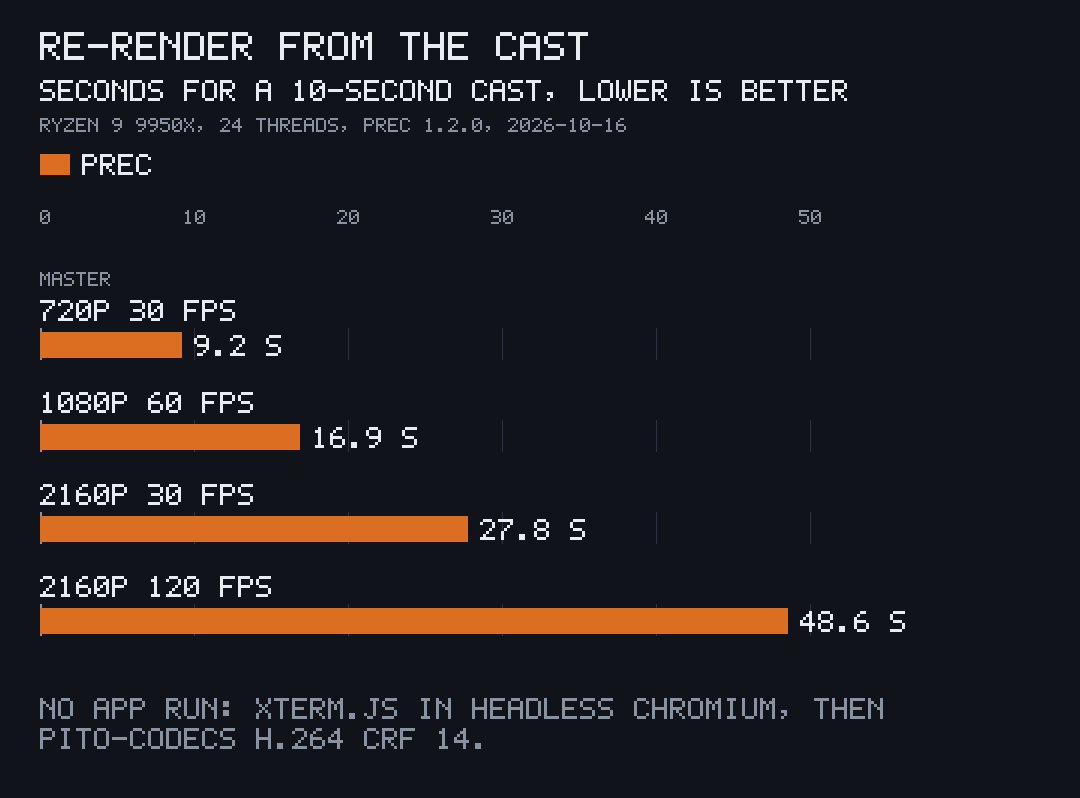
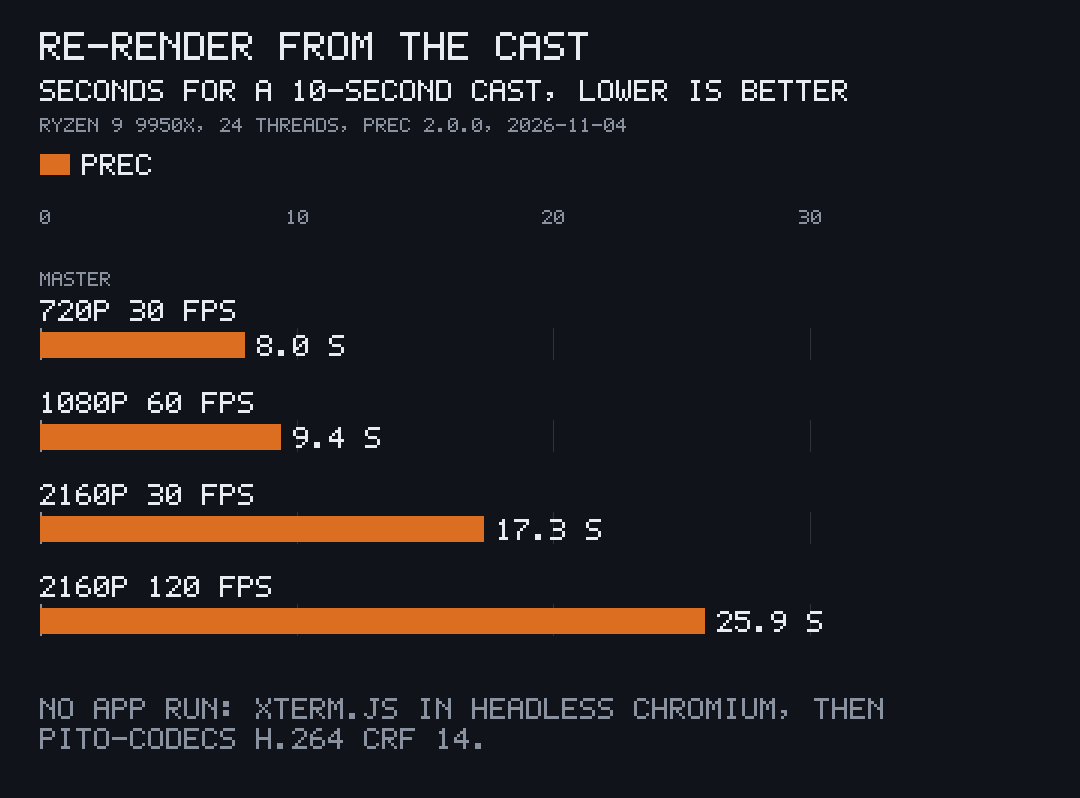
True byte claims: one prec version gives the same bytes from the same cast, and a new version can change them; the re-render numbers, hash and sizes are measured on 2.0.0, and bench.sh reads masters with pcod probe

diff --git a/README.md b/README.md
@@ -4,20 +4,20 @@
 
 [![Version](https://img.shields.io/github/v/tag/gmrdad82/prec)](https://github.com/gmrdad82/prec/tags)
 
-prec records terminal apps into exact videos and stills, part of [PITO MD](https://pitomd.com). It is an alternative to [VHS](https://github.com/charmbracelet/vhs): you write a tape of keystrokes, and prec runs your app in a real pty, records the session once, then replays it frame by frame in headless Chromium at exactly 24, 30, 48, 60 or 120 fps or the NTSC rates 23.976, 29.97, 47.952 and 59.94 (as exact rationals such as 24000/1001), at any size up to 4K. The same recording always replays to the same bytes.
+prec records terminal apps into exact videos and stills, part of [PITO MD](https://pitomd.com). It is an alternative to [VHS](https://github.com/charmbracelet/vhs): you write a tape of keystrokes, and prec runs your app in a real pty, records the session once, then replays it frame by frame in headless Chromium at exactly 24, 30, 48, 60 or 120 fps or the NTSC rates 23.976, 29.97, 47.952 and 59.94 (as exact rationals such as 24000/1001), at any size up to 4K. One prec version replays the same recording to the same bytes.
 
 | | |
 |---|---|
 | Frames in a 10-second clip at 120 fps | **1,196**, every one (VHS v0.11.0 on the same tape: 214) |
-| Re-render a 10-second cast at 1080p 60 fps | **16.9 s**, without running the app again |
-| Two renders of one cast | **byte-identical** masters, same sha256 |
+| Re-render a 10-second cast at 1080p 60 fps | **9.4 s**, without running the app again |
+| Two renders of one cast | **byte-identical** masters, same sha256; one prec version gives the same bytes on any machine |
 | Sizes and rates | any size up to **3840x2160**, at **24, 30, 48, 60 or 120 fps**, or NTSC **24000/1001, 30000/1001, 48000/1001 and 60000/1001** |
 | Binary | **5.7 MB**, stripped, fat LTO, its H.264 encoder built in (2.4 MB as the release `.tar.gz`) |
-| Code | **10,912 lines** of Rust in `src/`, unit tests included; **18** direct dependencies |
-| Cold release build | **70.4 s** with 4 build jobs |
+| Code | **17,754 lines** of Rust in `src/`, unit tests included; **17** direct dependencies |
+| Cold release build | **70.4 s** with 4 build jobs (prec 1.2.0) |
 | Network | none: prec downloads nothing |
 
-Measured on 2026-10-16 on an AMD Ryzen 9 9950X (prec and VHS pinned to the same 24 threads), with prec 1.2.0 and VHS v0.11.0, from [docs/bench/bench.sh](docs/bench/bench.sh); see [Speed](#speed) for every number and how it was taken.
+Measured on an AMD Ryzen 9 9950X (prec and VHS pinned to the same 24 threads): the VHS comparison on 2026-10-16 with prec 1.2.0 and VHS v0.11.0, the re-render time on 2026-11-04 with prec 2.0.0, from [docs/bench/bench.sh](docs/bench/bench.sh); see [Speed](#speed) for every number and how it was taken.
 
 Got questions or doubts? Ping me on Discord: https://discord.gg/XsNcn3kYzn
 
@@ -49,9 +49,9 @@ VHS v0.11.0 captured in real time and wrote a 25 fps file at every setting, shor
 
 ### Record once, render many
 
-The session is kept as an [asciicast v2](docs/formats.md) cast. `prec render` replays a cast at another size, rate or theme without running the app again, and the same cast always gives the same bytes: in the benchmark, two 720p 30 fps renders of one cast wrote the same master, sha256 `4fab0be36a0ac519…`.
+The session is kept as an [asciicast v2](docs/formats.md) cast. `prec render` replays a cast at another size, rate or theme without running the app again, and one prec version gives the same bytes from the same cast on any machine. A new version can change them (its encoder or its colour handling may move), and the [CHANGELOG](CHANGELOG.md) says when. In the benchmark, two 720p 30 fps renders of one cast wrote the same master, sha256 `5bf7c84a3f09217a…`.
 
-<p align="center"><img src="docs/images/rerender.png" width="640" alt="Bars, lower is better: seconds to replay and encode a 10-second cast with prec 1.2.0: 720p 30 fps 9.2 s, 1080p 60 fps 16.9 s, 2160p 30 fps 27.8 s, 2160p 120 fps 48.6 s."></p>
+<p align="center"><img src="docs/images/rerender.png" width="640" alt="Bars, lower is better: seconds to replay and encode a 10-second cast with prec 2.0.0: 720p 30 fps 8.0 s, 1080p 60 fps 9.4 s, 2160p 30 fps 17.3 s, 2160p 120 fps 25.9 s."></p>
 
 ### Native pixels at every size
 
@@ -95,11 +95,11 @@ All numbers come from one run of [docs/bench/bench.sh](docs/bench/bench.sh) on 2
 
 VHS finishes sooner, because it keeps what it can capture in real time; prec records in real time, then replays and encodes every frame at CRF 14 with pito-codecs' H.264 encoder. A frame's moment that brings no new bytes reuses the previous frame, so a mostly still terminal replays faster than a busy one.
 
-Re-rendering the 30 fps recording's cast, with no app run: 720p 30 fps in 9.2 s (299 frames; the same render again took 9.8 s and wrote the same bytes), 1080p 60 fps in 16.9 s (598 frames), 2160p 30 fps in 27.8 s (299 frames) and 2160p 120 fps in 48.6 s (1,196 frames).
+Re-rendering the 30 fps recording's cast, with no app run, measured on 2026-11-04 with prec 2.0.0 by `ONLY=1 CPUS=4-15,20-31 docs/bench/bench.sh` (the re-render part alone, on a machine with a load average of about 9 on 32 threads): 720p 30 fps in 8.0 s (299 frames; the same render again took 8.0 s and wrote the same bytes), 1080p 60 fps in 9.4 s (598 frames), 2160p 30 fps in 17.3 s (299 frames) and 2160p 120 fps in 25.9 s (1,196 frames).
 
 A window that resizes gets a new backdrop for every grid it passes through, and prec writes each one as a fast-compressed 8-bit RGB PNG. Measured on 2026-10-23 at 1280x720 and 30 fps, against prec 1.5.2's default-compressed RGBA PNGs, over a cast that resizes 40x10 → 38x16 → 40x10 → 60x20 → 40x10 (37 backdrops; medians of 10 interleaved runs): each write takes 788 µs instead of 1,608 µs, and the files are 2.2 times smaller (613,266 bytes instead of 1,375,323). The masters are byte-identical, and the whole render stays within run-to-run noise (8.80 s against 8.63 s).
 
-Size and build: the Linux x86_64 binary is 5,935,688 bytes (5.7 MB; 2,508,494 bytes packed as the release's `.tar.gz`), built with fat LTO, one codegen unit and stripped; a cold `cargo build --release --locked` took 70.4 s with 4 build jobs. `src/` is 10,912 lines of Rust with its unit tests. prec has 18 direct dependencies and 95 crates in its Linux build; the xterm.js files, the VHS themes and pito-codecs' H.264 encoder are compiled in, so it runs no encoder of yours and reads nothing from the network. Renders on a Mac are untested.
+Size and build: the Linux x86_64 binary is 5,995,872 bytes (5.7 MB; 2,557,323 bytes packed as the release's `.tar.gz`), built with fat LTO, one codegen unit and stripped; a cold `cargo build --release --locked` took 70.4 s with 4 build jobs (measured with prec 1.2.0). `src/` is 17,754 lines of Rust with its unit tests. prec has 17 direct dependencies and 105 crates in its Linux build; the xterm.js files, the VHS themes and pito-codecs' H.264 encoder are compiled in, so it runs no encoder of yours and reads nothing from the network. Renders on a Mac are untested.
 
 ## Install
 

diff --git a/docs/site/index.md b/docs/site/index.md
@@ -7,18 +7,18 @@ sidebar:
 
 ![A terminal: cat render/terminal/typing.tape shows a short tape; then prec clip demo typing --size 720p --fps 30 records the demo in a 60x16 pty, replays 114 frames at 1280x720 and prints its manifest, and ls lists the cast, the manifest, the master MP4 and the poster PNG.](images/record.gif)
 
-prec records terminal apps into exact videos and stills, part of [PITO MD](https://pitomd.com). It is an alternative to [VHS](https://github.com/charmbracelet/vhs): you write a tape of keystrokes, and prec runs your app in a real pty, records the session once, then replays it frame by frame in headless Chromium at exactly 24, 30, 48, 60 or 120 fps or the NTSC rates 23.976, 29.97, 47.952 and 59.94 (as exact rationals such as 24000/1001), at any size up to 4K. The same recording always replays to the same bytes.
+prec records terminal apps into exact videos and stills, part of [PITO MD](https://pitomd.com). It is an alternative to [VHS](https://github.com/charmbracelet/vhs): you write a tape of keystrokes, and prec runs your app in a real pty, records the session once, then replays it frame by frame in headless Chromium at exactly 24, 30, 48, 60 or 120 fps or the NTSC rates 23.976, 29.97, 47.952 and 59.94 (as exact rationals such as 24000/1001), at any size up to 4K. One prec version replays the same recording to the same bytes.
 
 | | |
 |---|---|
 | Frames in a 10-second clip at 120 fps | **1,196**, every one (VHS v0.11.0 on the same tape: 214) |
-| Re-render a 10-second cast at 1080p 60 fps | **16.9 s**, without running the app again |
-| Two renders of one cast | **byte-identical** masters, same sha256 |
+| Re-render a 10-second cast at 1080p 60 fps | **9.4 s**, without running the app again |
+| Two renders of one cast | **byte-identical** masters, same sha256; one prec version gives the same bytes on any machine |
 | Sizes and rates | any size up to **3840x2160**, at **24, 30, 48, 60 or 120 fps**, or NTSC **24000/1001, 30000/1001, 48000/1001 and 60000/1001** |
 | Binary | **5.7 MB**, stripped, fat LTO, its H.264 encoder built in (2.4 MB as the release `.tar.gz`) |
 | Network | none: prec downloads nothing |
 
-Measured on 2026-10-16 on an AMD Ryzen 9 9950X (prec and VHS pinned to the same 24 threads), with prec 1.2.0 and VHS v0.11.0; [How prec renders](guides/how-it-renders.md) gives every number and how it was taken.
+Measured on an AMD Ryzen 9 9950X (prec and VHS pinned to the same 24 threads): the VHS comparison on 2026-10-16 with prec 1.2.0 and VHS v0.11.0, the re-render time on 2026-11-04 with prec 2.0.0; [How prec renders](guides/how-it-renders.md) gives every number and how it was taken.
 
 ## Where to start
 

diff --git a/docs/site/guides/render-a-cast-again.md b/docs/site/guides/render-a-cast-again.md
@@ -5,7 +5,7 @@ sidebar:
   order: 5
 ---
 
-Every render keeps its recording as `<stem>.cast`, an asciicast v2 file. `prec render` replays a cast at any size, rate or theme without building or running the app again, and the same cast with the same flags always gives the same bytes.
+Every render keeps its recording as `<stem>.cast`, an asciicast v2 file. `prec render` replays a cast at any size, rate or theme without building or running the app again, and one prec version gives the same bytes from the same cast with the same flags.
 
 ## Record only
 
@@ -47,12 +47,14 @@ A passed value is never printed, only its variable's name. `prec render` has the
 
 ## How long it takes
 
-Re-rendering the 10-second cast of the sample app's `tour` shot on an AMD Ryzen 9 9950X (24 threads, prec 1.2.0):
+Re-rendering the 10-second cast of the sample app's `tour` shot on an AMD Ryzen 9 9950X (24 threads, prec 2.0.0):
 
-![Bars, lower is better: seconds to replay and encode a 10-second cast with prec 1.2.0: 720p 30 fps 9.2 s, 1080p 60 fps 16.9 s, 2160p 30 fps 27.8 s, 2160p 120 fps 48.6 s.](../images/rerender.png)
+![Bars, lower is better: seconds to replay and encode a 10-second cast with prec 2.0.0: 720p 30 fps 8.0 s, 1080p 60 fps 9.4 s, 2160p 30 fps 17.3 s, 2160p 120 fps 25.9 s.](../images/rerender.png)
 
-Two 720p 30 fps renders of that cast wrote the same master, sha256 `4fab0be36a0ac519…`; the second took 9.8 s.
+Two 720p 30 fps renders of that cast wrote the same master, sha256 `5bf7c84a3f09217a…`; the second took 8.0 s.
 
 ## Same bytes every time
 
-A replay steps a virtual clock, not the wall clock, and the encoder's thread count is fixed because its output follows it. So a render's master doesn't depend on how busy the machine was or how many cores it has: keep the cast, and you can make the same master again later, or a 4K one, without the app or its data.
+A replay steps a virtual clock, not the wall clock, and the encoder's thread count is fixed because its output follows it. So a render's master doesn't depend on how busy the machine was or how many cores it has: keep the cast, and with the same prec version you can make the same master again later, or a 4K one, without the app or its data.
+
+A new prec version can change the bytes, for instance when its encoder is bumped; the CHANGELOG says when. A master from one version is not the master of another, so compare hashes within one version.

diff --git a/CHANGELOG.md b/CHANGELOG.md
@@ -7,6 +7,11 @@
 - Recording is silent on the machine. For each `record` or `clip`, prec starts its own `pipewire`, `wireplumber` and `pipewire-pulse` under a private runtime folder, home and configuration, with one null sink as the only output; no sound device, Bluetooth, camera or session bus is opened, and the session's PipeWire is never reached. The app's `XDG_RUNTIME_DIR` is that private folder, so Pulse apps are captured too. It needs `pipewire` and `wireplumber` (with `pw-record` and `pw-dump`), and `pipewire-pulse` for Pulse apps; without them, or when a daemon fails to start, the recording is silent with one line on stderr. The daemons add about 30 ms to a recording's start and stop on every exit path, including an interrupt. `prec doctor` names all four tools.
 - `PREC_AUDIO=off` starts no sound daemons, so the recording is silent.
 
+### Fixed
+
+- The claim of the same bytes: one prec version gives the same master from the same cast on any machine, and a new version can change it (pito-codecs 3.1.0 did), so the README and the guides no longer say "always", and the published hash is the one 2.0.0 writes.
+- `docs/bench/bench.sh` reads its masters with `pcod probe` instead of `ffprobe`, and `ONLY=1` runs just the re-render part.
+
 ### Removed
 
 - The job records: prec no longer writes the live record of a render, and `PITO_JOBS` and `PITO_JOBS_DIR` are ordinary variables it does not read. A dashboard reading `$XDG_RUNTIME_DIR/pito-jobs/` gets nothing from prec now.

diff --git a/docs/site/guides/how-it-renders.md b/docs/site/guides/how-it-renders.md
@@ -41,4 +41,4 @@ Measured on 2026-10-16 by `docs/bench/bench.sh` in prec's repository: an AMD Ryz
 
 ## Size and build
 
-The Linux x86_64 binary is 5,935,688 bytes (5.7 MB; 2,508,494 bytes packed as the release's `.tar.gz`), built with fat LTO, one codegen unit and stripped; a cold `cargo build --release --locked` took 70.4 s with 4 build jobs. prec has 18 direct dependencies and 95 crates in its Linux build; the xterm.js files, the VHS themes and pito-codecs' H.264 encoder are compiled in, so it runs no encoder of yours and reads nothing from the network.
+The Linux x86_64 binary is 5,995,872 bytes (5.7 MB; 2,557,323 bytes packed as the release's `.tar.gz`), built with fat LTO, one codegen unit and stripped; a cold `cargo build --release --locked` took 70.4 s with 4 build jobs (measured with prec 1.2.0). prec has 17 direct dependencies and 105 crates in its Linux build; the xterm.js files, the VHS themes and pito-codecs' H.264 encoder are compiled in, so it runs no encoder of yours and reads nothing from the network.
